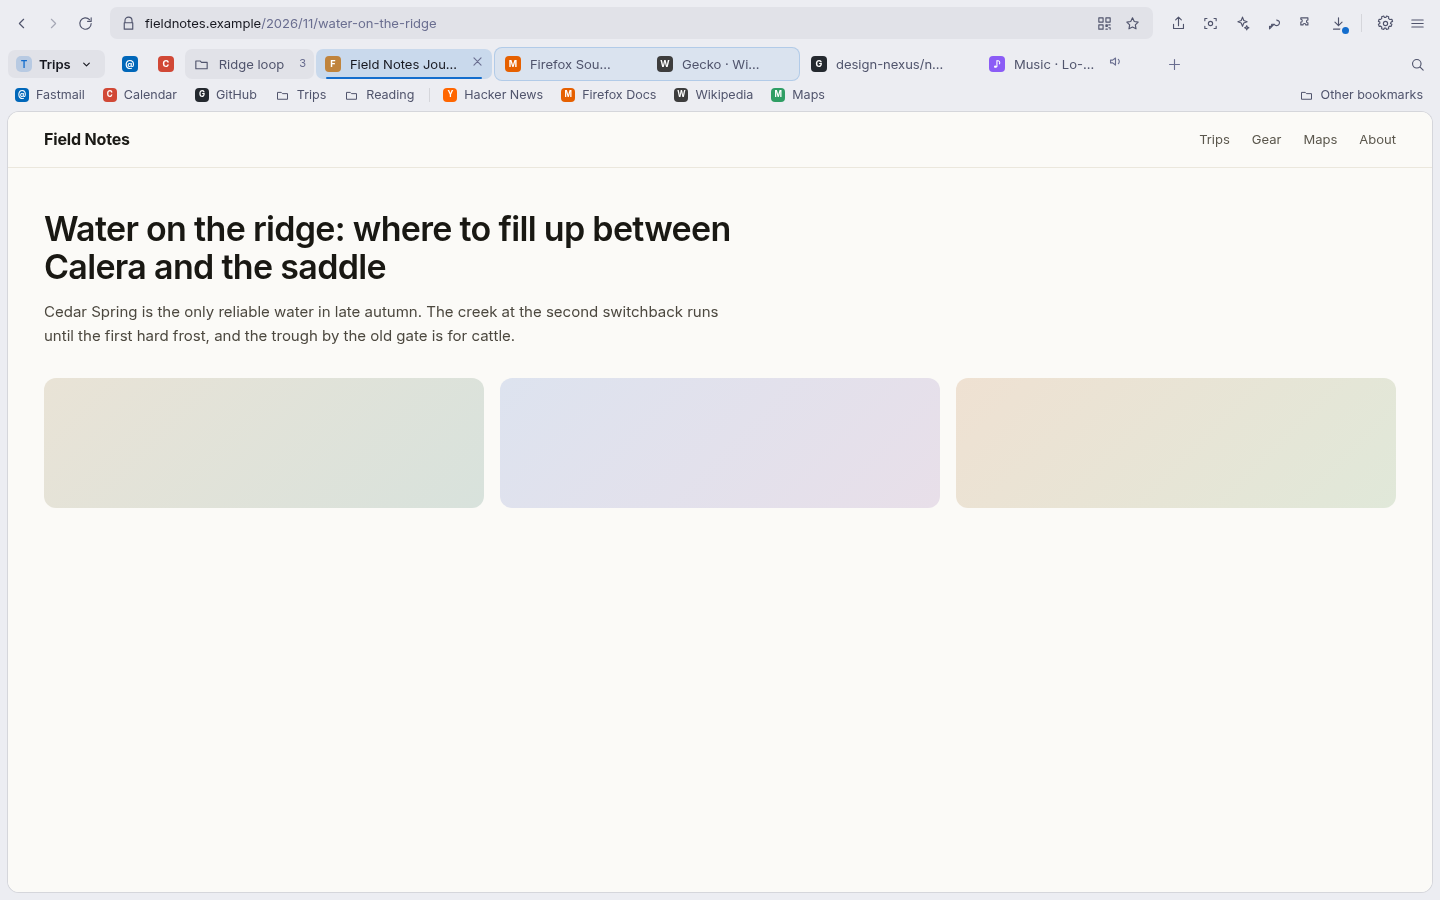
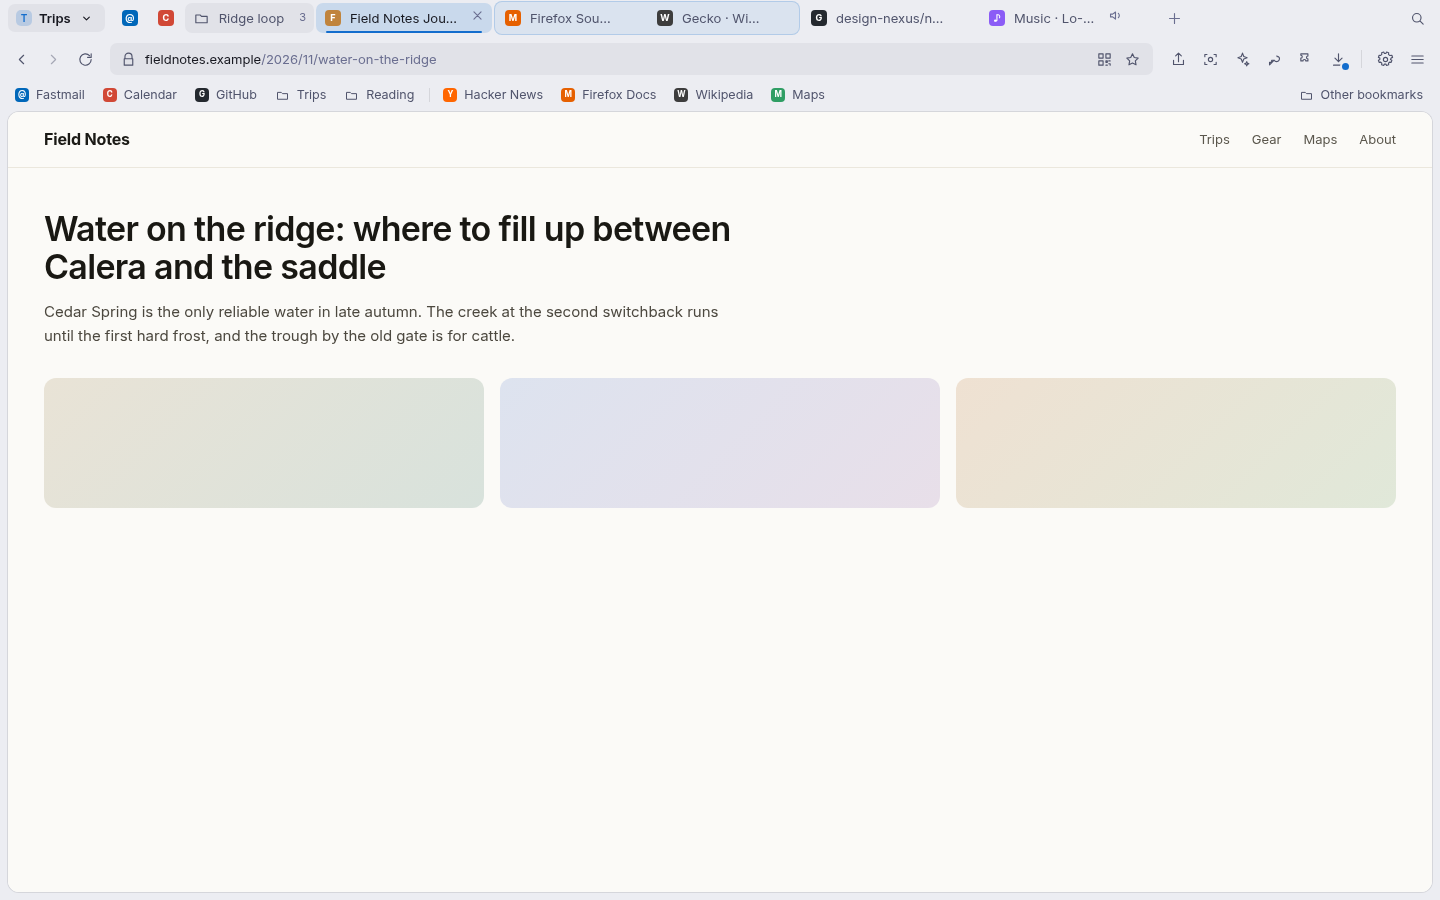
Browser mockups: horizontal tabs above the top bar, as in Firefox

diff --git a/mockups/browser/browser.js b/mockups/browser/browser.js
@@ -106,7 +106,7 @@ function hrow({ drop = false } = {}) {
     ${tab("gh")}${tab("music", "", `<span class="sound">${icon("sound")}</span>`)}
     <div class="newtab">${icon("plus")}</div><span class="gap"></span>
     <div class="btn">${icon("search")}</div>
-  </div>${drop ? `<div class="drop" style="left:578px;top:${46 + 4}px;height:28px"></div>` : ""}`;
+  </div>${drop ? `<div class="drop" style="left:578px;top:4px;height:28px"></div>` : ""}`;
 }
 
 const site = (kind = "") => kind === "docs"
@@ -245,8 +245,8 @@ const SCREENS = {
   vertical: () => `<div class="win">${win(sidebar(), bar())}</div>`,
   compact: () => `<div class="win rail">${win(rail(), bar())}</div>`,
   hidden: () => `<div class="win nosidebar">${bar({ sidebarButton: true })}<div class="body">${page()}</div><div class="edge"></div></div>`,
-  horizontal: () => `<div class="win nosidebar">${bar({ sidebarButton: false })}${hrow()}<div class="body">${page()}</div></div>`,
-  "horizontal-drag": () => `<div class="win nosidebar">${bar()}${hrow({ drop: true }).replace('class="tab on"', 'class="tab on" style="opacity:.55"')}<div class="body">${page()}</div><div class="note">Dragging a tab: the marker stands between tabs</div></div>`,
+  horizontal: () => `<div class="win nosidebar">${hrow()}${bar({ sidebarButton: false })}<div class="body">${page()}</div></div>`,
+  "horizontal-drag": () => `<div class="win nosidebar">${hrow({ drop: true }).replace('class="tab on"', 'class="tab on" style="opacity:.55"')}${bar()}<div class="body">${page()}</div><div class="note">Dragging a tab: the marker stands between tabs</div></div>`,
   workspaces: () => `<div class="win">${win(sidebar(), bar())}${workspacesMenu()}</div>`,
   split: () => `<div class="win">${win(sidebar({ active: "split" }), bar({ url: "docs" }), `<main class="page split"><div class="pane">${site()}</div><div class="pane focused">${site("docs")}</div></main>`)}</div>`,
   newtab: () => `<div class="win">${win(sidebar({ active: "" }), bar({ address: { icon: "search", text: "Search or enter an address", placeholder: true } }), `<main class="page">${newtab()}</main>`)}</div>`,
@@ -255,7 +255,7 @@ const SCREENS = {
   insecure: () => `<div class="win">${win(sidebar(), bar({ insecure: true }))}<div class="tip" style="left:236px;top:46px">The connection to this site isn't secure</div></div>`,
   frosted: () => `<div class="win frost">${win(sidebar(), bar())}${workspacesMenu()}<div class="note">Frosted menus: an option, solid by default</div></div>`,
   "vertical-bookmarks": () => `<div class="win">${win(sidebar(), bar() + bookmarks())}</div>`,
-  "horizontal-bookmarks": () => `<div class="win nosidebar">${bar()}${hrow()}${bookmarks()}<div class="body">${page()}</div></div>`,
+  "horizontal-bookmarks": () => `<div class="win nosidebar">${hrow()}${bar()}${bookmarks()}<div class="body">${page()}</div></div>`,
   "bookmarks-folder": () => `<div class="win">${win(sidebar(), bar() + bookmarks({ open: true }))}${bookmarkFolder()}</div>`,
   "compact-bookmarks": () => `<div class="win rail">${win(rail(), bar() + bookmarks({ overflow: true }))}</div>`,
   "bookmarks-icons": () => `<div class="win">${win(sidebar(), bar() + bookmarks({ iconsOnly: true }))}<div class="tip" style="left:300px;top:78px">Calendar</div></div>`,

diff --git a/mockups/browser/index.html b/mockups/browser/index.html
@@ -59,13 +59,13 @@ default), Nyx Dark and Nyx Light. Click a shot for the full size, or "live" to o
       ["vertical", "Vertical tabs, sidebar expanded", "Workspace row with tab search, Essentials, pinned, Folders, a split group, the foot"],
       ["compact", "Sidebar compact", "The 56 px icon rail: favicons, the active tab's accent bar, workspace icons"],
       ["hidden", "Sidebar hidden", "No sidebar; its button moves to the top bar and the window's edge reveals it"],
-      ["horizontal", "Horizontal tabs", "The workspace chip, pinned tabs, a folder, a split group, then tabs, in one row"],
+      ["horizontal", "Horizontal tabs", "Above the top bar, as in Firefox: the workspace chip, pinned tabs, a folder, a split group, then tabs"],
       ["horizontal-drag", "Horizontal tabs · dragging", "The drop marker stands between tabs"],
       ["overflow", "Narrow window (800 px)", "Automatic chose the rail; More tools holds the buttons the bar has no room for"],
     ]],
     ["Bookmarks bar", [
       ["vertical-bookmarks", "Bookmarks bar · vertical tabs", "Under the top bar, on the same surface: bookmarks, folders, a separator, Other bookmarks"],
-      ["horizontal-bookmarks", "Bookmarks bar · horizontal tabs", "Under the tab row, above the page"],
+      ["horizontal-bookmarks", "Bookmarks bar · horizontal tabs", "Under the top bar, above the page"],
       ["bookmarks-folder", "A bookmarks folder open", "Its bookmarks, a subfolder, Open all in tabs or in a split view"],
       ["compact-bookmarks", "Bookmarks bar · narrow window", "Bookmarks that don't fit go behind » at the end"],
       ["bookmarks-icons", "Bookmarks bar · icons only", "A setting: bookmarks show just their icon, the name on hover; folders keep their names"],
